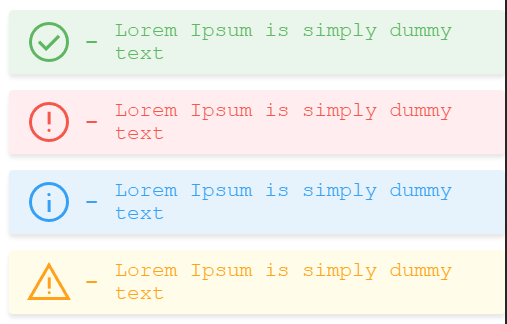
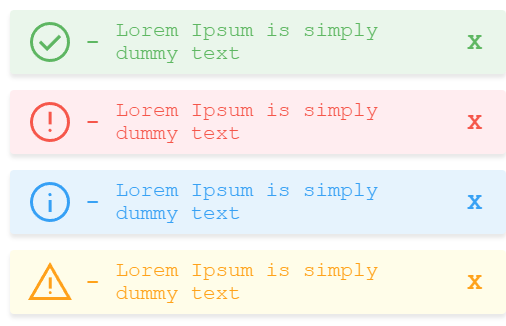
1.0.0

diff --git a/src/SimpleToastMessages.ts b/src/SimpleToastMessages.ts
@@ -3,21 +3,21 @@ import Helper from "./classes/helper.js";
 import Info from "./models/info.js";
 
 /**
- * SimplyStatusMessages
+ * Simple toast messages
  */
-class SimplyStatusMessages {
+class SimpleToastMessages {
 	/**
 	 * Instance  of simply status messages
 	 */
-	private static instance: SimplyStatusMessages;
+	private static instance: SimpleToastMessages;
 
 	/**
 	 * Gets instance
 	 * @returns instance
 	 */
-	public static getInstance(): SimplyStatusMessages {
+	public static getInstance(): SimpleToastMessages {
 		if (!this.instance) {
-			this.instance = new SimplyStatusMessages();
+			this.instance = new SimpleToastMessages();
 		}
 
 		return this.instance;
@@ -44,14 +44,16 @@ class SimplyStatusMessages {
 	 * @param message
 	 * @param type
 	 */
-	private async show(message: string, type: MessageType) {
+	private async show(message: string, type: MessageType, timer?: number) {
 		const messageElement = this.renderMessage(message, type);
 		const messageContainer = <HTMLDivElement>(
 			document.getElementById("ssm_message_container")
 		);
 		messageContainer.appendChild(messageElement);
-		await Helper.sleep(3000);
-		messageContainer.removeChild(messageElement);
+		if (timer) {
+			await Helper.sleep(timer);
+			messageContainer.removeChild(messageElement);
+		}
 	}
 
 	/**
@@ -63,6 +65,16 @@ class SimplyStatusMessages {
 	private renderMessage(message: string, type: MessageType) {
 		const messageElement = document.createElement("div");
 		let prefix = "";
+		const suffix = document.createElement("b");
+		suffix.innerHTML = "X";
+		suffix.className = "ssm_message_close";
+		suffix.addEventListener("click", () => {
+			messageElement.remove();
+		});
+		suffix.style.float = "right";
+		suffix.style.cursor = "pointer";
+		suffix.style.marginRight = "1rem";
+		suffix.style.marginLeft = "1rem";
 
 		switch (type) {
 			case "success":
@@ -85,8 +97,11 @@ class SimplyStatusMessages {
 
 		messageElement.innerHTML =
 			prefix + "<b>-</b> <span>" + message + "</span>";
+		messageElement.appendChild(suffix);
 		messageElement.className = type + "_message ssm_message";
 		messageElement.style.display = "flex";
+		messageElement.style.width = "100%";
+
 		return messageElement;
 	}
 
@@ -174,36 +189,36 @@ class SimplyStatusMessages {
 	 * Success message
 	 * @param message
 	 */
-	public success(message: string) {
-		this.show(message, "success");
+	public success(message: string, timeOut?: number) {
+		this.show(message, "success", timeOut);
 	}
 
 	/**
 	 * Errors message
 	 * @param message
 	 */
-	public error(message: string) {
-		this.show(message, "error");
+	public error(message: string, timeOut?: number) {
+		this.show(message, "error", timeOut);
 	}
 
 	/**
 	 * Warning message
 	 * @param message
 	 */
-	public warning(message: string) {
-		this.show(message, "warning");
+	public warning(message: string, timeOut?: number) {
+		this.show(message, "warning", timeOut);
 	}
 
 	/**
 	 * Infos message
 	 * @param message
 	 */
-	public info(message: string) {
-		this.show(message, "info");
+	public info(message: string, timeOut?: number) {
+		this.show(message, "info", timeOut);
 	}
 }
 
-export default { SimplyStatusMessages };
-export { SimplyStatusMessages };
-export { SimplyStatusMessages as ssm };
-export { SimplyStatusMessages as M };
+export default { SimpleToastMessages };
+export { SimpleToastMessages };
+export { SimpleToastMessages as stm };
+export { SimpleToastMessages as T };

diff --git a/test/test.ts b/test/test.ts
@@ -1,4 +1,4 @@
-import { M } from "../dist/src/SimplyStatusMessages.js";
+import { T } from "../dist/src/SimpleToastMessages.js";
 
 const body = document.body;
 
@@ -9,11 +9,11 @@ const message = "Lorem Ipsum is simply dummy text ";
 fireButton.classList.add("btn", "btn-primary");
 fireButton.innerText = "Fire";
 fireButton.addEventListener("click", () => {
-	const msg = M.getInstance();
-	msg.success(message);
+	const msg = T.getInstance();
+	msg.success(message, 1000);
 	msg.error(message);
-	msg.info(message);
-	msg.warning(message);
+	msg.info(message, 2000);
+	msg.warning(message, 5000);
 })
 
 fireInfoContainer.appendChild(fireButton);

diff --git a/src/models/info.ts b/src/models/info.ts
@@ -27,12 +27,12 @@ export default class Info {
 	/**
 	 * Repository  of info
 	 */
-	private readonly REPOSITORY: string = "git+https://github.com/JosunLP/simple-status-messages.git"
+	private readonly REPOSITORY: string = "git+https://github.com/JosunLP/simple-toast-messages.git"
 
 	/**
 	 * Homepage  of info
 	 */
-	private readonly HOMEPAGE: string = "https://github.com/JosunLP/simple-status-messages#readme"
+	private readonly HOMEPAGE: string = "https://github.com/JosunLP/simple-toast-messages#readme"
 
 	/**
 	 * Gets info

diff --git a/README.md b/README.md
@@ -1,31 +1,33 @@
-# simple-status-messages
+# simple-toast-messages
 
-[![npm version](https://badge.fury.io/js/simple-status-messages.svg)](https://badge.fury.io/js/simple-status-messages)
-[![GitHub issues](https://img.shields.io/github/issues/josunlp/simple-status-messages)](https://github.com/josunlp/simple-status-messages/issues)
-[![GitHub forks](https://img.shields.io/github/forks/josunlp/simple-status-messages)](https://github.com/josunlp/simple-status-messages/network)
-[![GitHub stars](https://img.shields.io/github/stars/josunlp/simple-status-messages)](https://github.com/josunlp/simple-status-messages/stargazers)
-[![GitHub license](https://img.shields.io/github/license/josunlp/simple-status-messages)](https://github.com/josunlp/simple-status-messages/blob/master/LICENSE)
-![npm](https://img.shields.io/npm/dt/simple-status-messages)
-[![CodeFactor](https://www.codefactor.io/repository/github/josunlp/simple-status-messages/badge)](https://www.codefactor.io/repository/github/josunlp/simple-status-messages)
+[![npm version](https://badge.fury.io/js/simple-toast-messages.svg)](https://badge.fury.io/js/simple-toast-messages)
+[![GitHub issues](https://img.shields.io/github/issues/josunlp/simple-toast-messages)](https://github.com/josunlp/simple-toast-messages/issues)
+[![GitHub forks](https://img.shields.io/github/forks/josunlp/simple-toast-messages)](https://github.com/josunlp/simple-toast-messages/network)
+[![GitHub stars](https://img.shields.io/github/stars/josunlp/simple-toast-messages)](https://github.com/josunlp/simple-toast-messages/stargazers)
+[![GitHub license](https://img.shields.io/github/license/josunlp/simple-toast-messages)](https://github.com/josunlp/simple-toast-messages/blob/master/LICENSE)
+![npm](https://img.shields.io/npm/dt/simple-toast-messages)
+[![CodeFactor](https://www.codefactor.io/repository/github/josunlp/simple-toast-messages/badge)](https://www.codefactor.io/repository/github/josunlp/simple-toast-messages)
 [![TypeScript](https://img.shields.io/badge/Developed%20in-TypeScript-blue?logo=typescript)](https://www.typescriptlang.org/)
 
 A simple TypeScript package that builds up a messaging system.
 
 ## Installation
 
-```npm install simple-status-messages```
+```bash
+npm install simple-toast-messages
+```
 
 ## Usage
 
 ```typescript
-import SimplyStatusMessages from 'simple-status-messages';
-import { SimplyStatusMessages, ssm, M } from 'simple-status-messages';
+import SimpleToastMessages from 'simple-toast-messages';
+import { SimpleToastMessages, ssm, M } from 'simple-toast-messages';
 
-const msg = SimplyStatusMessages.getInstance();
-msg.success('Lorem ipsum is simply dummy text ');
-msg.error('Lorem ipsum is simply dummy text ');
-msg.info('Lorem ipsum is simply dummy text ');
-msg.warning('Lorem ipsum is simply dummy text ');
+const msg = SimpleToastMessages.getInstance();
+msg.success(message, 1000);
+msg.error(message);
+msg.info(message, 2000);
+msg.warning(message, 5000);
 ```
 
 ![Example](assets/images/example.png)
